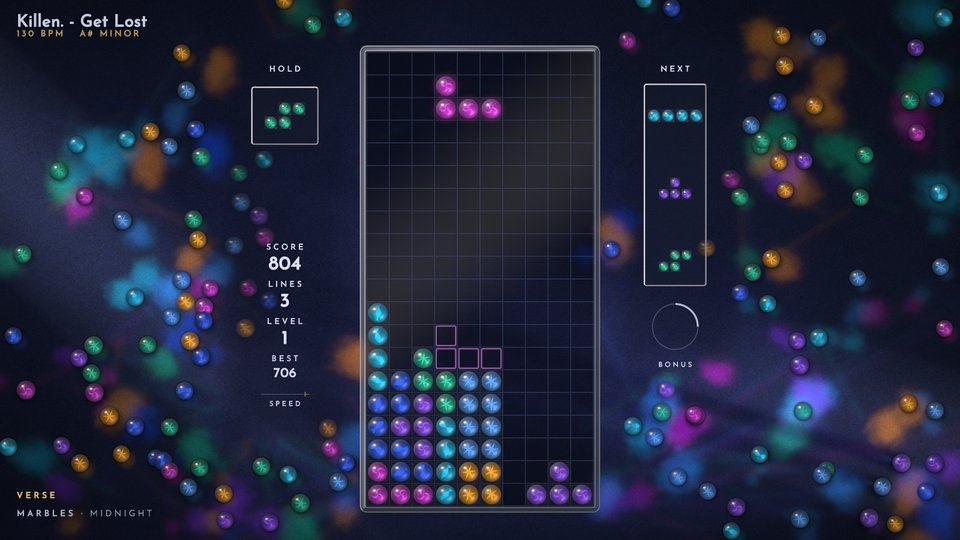
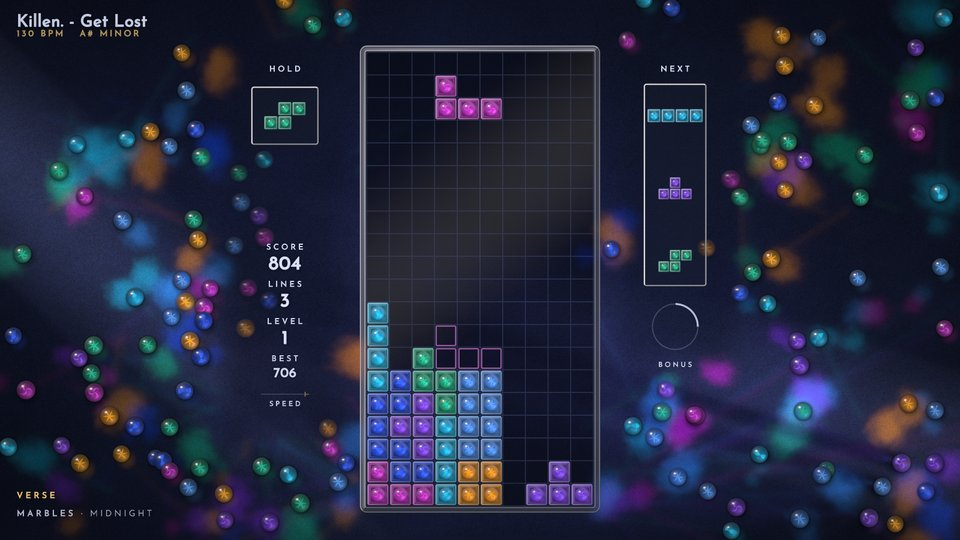
MARBLES: each cell a block of deep tinted glass with a bevel and a crisp edge, its marble inside (smaller, under the block's front face), so the pieces read as blocks; the falling piece without its glow; README image re-shot
Claude-Session: https://claude.ai/code/session_01TRpCVe8qgHvBr5qwovmpX7

diff --git a/src/universes/marbles/shaders.hpp b/src/universes/marbles/shaders.hpp
@@ -374,28 +374,34 @@ void main() {
             frag = vec4(mix(c0, uBridgeInk, bb), line * alpha);
             return;
         }
-        // a frosted tile tinted by its marble
-        vec3 base = mix(uTileCol, c0, uTileTint);
-        base *= 1.0 + 0.12 * (p.y / h);
-        float ta = uTileAlpha * 0.075;
-        // what the marble sees behind it: the tile over the pane over the world
-        vec3 behind = mix(bgAt(v0.xy), uPanel.rgb, uPanel.a);
-        tileEnv = mix(behind, base, clamp(ta * 2.0, 0.0, 1.0)) * 0.95 + 0.015;
+        // a block of deep tinted glass holding its marble: a body of the marble's color, darker toward the middle,
+        // a bevel all round (lit up left, shaded down right), a crisp edge
+        float hb = 0.13 * h / 0.46;                          // the bevel's width
+        float bev = smoothstep(-hb, -hb + px * 1.5, d);       // 0 on the face, 1 on the bevel
+        vec2 bn = normalize(p + 1e-4);                       // which side of the bevel
+        float side = dot(abs(p.x) > abs(p.y) ? vec2(sign(p.x), 0.0) : vec2(0.0, sign(p.y)), vec2(-0.7071, 0.7071));
+        vec3 deep = c0 * (0.32 + 0.08 * uLightGround);
+        vec3 base = mix(deep, c0 * 0.55, smoothstep(0.0, h, length(p)) * 0.6);
+        base *= 1.0 + 0.10 * (p.y / h);
+        base = mix(base, mix(c0 * 0.3, mix(c0, vec3(1.0), 0.12) * 0.9, side * 0.5 + 0.5), bev);
+        float ta = mix(0.62, 0.8, bev) * (0.75 + 0.25 * uTileAlpha);
+        // what the marble sees behind it: the block's glass
+        tileEnv = base * 1.1 + 0.01;
 )"
-R"(        // the marble's shadow on the tile, and the light it focuses there
-        vec2 sp = (p - mo - ld * 0.11) / R;
-        float sh = exp(-dot(sp, sp) * 1.6);
-        base *= 1.0 - 0.5 * sh * (1.0 - uLightGround * 0.3);
-        ta = mix(ta, max(ta, 0.04), sh * 0.5);
-        vec2 cq = (p - mo - ld * 0.35) / R;
-        float caus = exp(-dot(cq, cq) * 6.0);
-        base += (c0 * 0.8 + 0.1) * caus * (0.35 + 0.9 * dot(Lc, vec3(0.3, 0.5, 0.2)));
-        ta = max(ta, caus * 0.075);
-        // a hairline lit along the top left of the tile's edge
+R"(        // the marble's shadow on the back of the block, and the light it focuses there
+        vec2 sp = (p - mo - ld * 0.09) / R;
+        float sh = exp(-dot(sp, sp) * 1.4);
+        base *= 1.0 - 0.45 * sh * (1.0 - bev);
+        vec2 cq = (p - mo - ld * 0.32) / R;
+        float caus = exp(-dot(cq, cq) * 6.0) * (1.0 - bev);
+        base += (c0 * 0.8 + 0.1) * caus * (0.25 + 0.7 * dot(Lc, vec3(0.3, 0.5, 0.2)));
+        // a hairline along the outer edge and the bevel's inner edge, brighter up left
         float rim = smoothstep(px * 1.3, px * 0.15, abs(d + px * 1.0));
-        float lit = clamp(dot(normalize(p + 1e-4), vec2(-0.7071, 0.7071)) * 0.5 + 0.5, 0.0, 1.0);
-        base = mix(base, mix(mix(c0, vec3(1.0), 0.6), c0 * 0.75, uLightGround), rim * (0.25 + 0.5 * mix(lit, 1.0 - lit * 0.5, uLightGround)));
-        ta = max(ta, rim * (0.012 + 0.02 * lit));
+        float inner = smoothstep(px * 1.2, px * 0.1, abs(d + hb));
+        float lit = clamp(dot(bn, vec2(-0.7071, 0.7071)) * 0.5 + 0.5, 0.0, 1.0);
+        vec3 hi = mix(c0, vec3(1.0), 0.55);
+        base = mix(base, hi, rim * (0.25 + 0.6 * lit) + inner * 0.3 * lit);
+        ta = max(ta, rim * 0.9);
         // the bridge: plain squares of ink
         base = mix(base, uBridgeInk, bb);
         ta = mix(ta, 0.95, bb);
@@ -438,6 +444,14 @@ R"(        // the marble's shadow on the tile, and the light it focuses there
         float a = ma + outc.a * (1.0 - ma);
         vec3 c = (m * ma + outc.rgb * outc.a * (1.0 - ma)) / max(a, 1e-4);
         outc = vec4(c, a);
+    }
+    if (kind == 1 && bb < 1.0) {
+        // the block's front face over its marble: a faint tint and a broad diagonal sheen, so the marble sits inside
+        float d = sdRoundBox(p, vec2(h), 0.075 * h / 0.46);
+        float face = smoothstep(px, -px, d) * (1.0 - bb);
+        float band = smoothstep(0.30, 0.0, abs(dot(p / h, vec2(0.7071, 0.7071)) - 0.55)) * smoothstep(0.0, -0.13 * h / 0.46, d);
+        outc.rgb = mix(outc.rgb, c0 * 0.6, 0.12 * face);
+        outc.rgb += mix(c0, vec3(1.0), 0.6) * band * 0.10 * face;
     }
     frag = vec4(outc.rgb, outc.a * alpha);
 }

diff --git a/src/universes/marbles/marbles.cpp b/src/universes/marbles/marbles.cpp
@@ -76,7 +76,7 @@ float smin(float a, float b, float k) {
 }
 
 constexpr float WELL_HALF = 5.2f, WELL_TOP = 10.15f;   // the pane's extent (the drop's waves start there)
-constexpr float TILE_H = 0.46f, TILE_R = 0.455f;      // a tile's half size, its marble's radius (board units)
+constexpr float TILE_H = 0.46f, TILE_R = 0.33f;       // a tile's half size, its marble's radius (board units)
 constexpr int MAX_MARBLES = 140;
 constexpr float R_MIN = 0.38f, R_MAX = 0.43f;          // the marbles on the table
 constexpr float ROLL = 2.2f, DRAG = 0.2f;              // the felt's rolling resistance: units/s^2, and 1/s
@@ -1375,8 +1375,6 @@ void MarblesUniverse::drawBoard(const Game& g, float world) {
             if (cells[i][1] < Game::HIDDEN - 1) continue;
             const vec3 w = layout::cellPos(cells[i][0] + dx, cells[i][1] + dy);
             put(w.x, w.y, TILE_H, TILE_R, pal_.piece[type], 1.f, hashf((float)nextId_, i + 10.f) * TAU, glow, mseed(type, hashf((float)nextId_, (float)i)), 1);
-            // it glows a little as it falls (no trail)
-            putFx(w.x, w.y, 0.85f, 0.f, pal_.piece[type], 0.16f * (1.f - bb), 0);
         }
     }
     (void)world;

diff --git a/docs/universes.md b/docs/universes.md
@@ -147,7 +147,7 @@ Fluorescent paint splashed on a dark wall. The background is a matte, textured w
 
 ![MARBLES](universes/marbles.jpg)
 
-Glass marbles in square tiles, shot out across a dark table where they collide and stain the felt. One world seen from above, lit like a film still: a dark table with a fine grain, never busy (navy felt, teal slate or black brushed metal, one per variant; the slate and the felt show a soft relief lit from up left), under a soft overhead pool of light, its corners sinking into a moody vignette; the well stands on it as a clear glass box: its floor dark glass through which the table shows dimly, a fine grid of cells inside, a faint reflection of the room sliding across it, and thick bevelled glass walls catching the light (a bright hairline along both edges of the bevel, the walls facing the light lit, a long streak of the window along them); HOLD and NEXT sit in thin glass frames. Everything on the table (the marbles, the dye, the light) lies under the well and the HUD, never over the game: under the pane a marble is at most a dim shape, under the HUD's columns and text a rolling marble is dimmed and its halo dropped, and the HUD is a gentle slope: a slow or resting marble there is pushed out (to the nearest side away from the well) until it rests outside, so nothing ever settles under the HUD, and no dye settles there either. Each cell of a piece is a big glass marble (nearly the cell's width) sitting in its cell of the grid (its glass box is now barely there), so that the marble carries the piece and the pieces read by their marbles' colors; the falling piece glows softly (no trail). The marbles are colored glass, deep and saturated like jewels: through each one the table under it is seen upside down, as through a lens, tinted by the glass, which also holds a little light in its own color (so that a marble reads as its color, never as a gray bead, even over the dark table), darker toward the rim, the sky caught at its edge tinted too; inside, magnified and in two layers for depth, its core, one per piece type (a twisted ribbon, a cat's eye of three curved vanes or a swirl of strands), a few tiny bubbles; every marble is a glossy ball under the room's overhead light (a crisp window up left on the glass, the light it focuses glowing inside low right, a thin dark silhouette at its edge); on the table each casts a soft shadow down right and lets a soft pool of its color through onto the table beside it; the marbles on the table are dimmer than the board's (about three quarters), and one rolling fast is smeared along its way (motion blur). They are lit by real light: two lamps beyond the table's sides throw wide soft beams grazing it, one over each side of the well, turning and drifting very slowly (a few minutes to sweep the table outside a drop, livelier in one) and fading with distance, the second one coming up from mid on; their rays are traced in 2D on the CPU through the marbles (each a glass ball: refracted in and out, a Fresnel reflection, the light tinted by its glass on the way, focused like a ball lens into a narrow caustic just behind it that opens out into thin streaks of tinted light, a shadow around them; a marble lights its neighbours; the cost is bounded: 44 rays a beam, a capped number of segments, the hashed grid). Each marble is lit by the light that actually crosses it, smoothed: its glass and core glow in their tint, a focused spot inside on the far side, the rim facing the light catching it, the lamp's highlight where its surface faces it; the marbles in the well take the key light from the same side. The light on the table shows the grain and, above all, the dye; it stays secondary, soft-shouldered, never blinding, and it never pulses. Outside a drop it is calm and steady: the traced light is eased into what the table shows over about 0.7 s (0.1 s in a drop) and each marble's received light over about as long, so caustics fade in and out as the beams drift and marbles roll, nothing pops or flickers when the marbles are still, and there are no sparkles: at most a marble now and then swelling softly with light over a second and a half. A cleared row pops: its tiles swell a little and vanish in a moment and each marble drops onto the table under its cell and is shot out along its row to its own side (a slight spread, so it comes out of the well's edge at the height of its line) at a real speed (fast enough to carry it past the HUD's columns), gliding out from under the glass (touching nothing there, only a dim shape: nothing ever comes to rest hidden under the well), knocking past the wall of the box (deflected a little up or down, so the marbles fan out over the table instead of heaping level with the low rows; now and then a few short sparks there) and rolling across the table, slowed by the felt, knocking into the marbles already lying there: elastic collisions (restitution 0.86), billiard chains, a hard knock throwing a few short hot sparks off the contact; a marble at rest sleeps until it is hit hard enough (a gentle touch leaves it be: no jitter, no creeping); no walls: a marble pushed off the edge of the picture is gone (their speeds vary widely: some rest just past the HUD, some far out, a few roll off); at most about 140, the oldest at rest fading away, and a marble long at rest packed among three or more others fades away now and then, so the table stays a loose scatter however long the song, never a heap; at the real speed, even in slow motion. Every hit spreads color: both marbles stain the felt around them with their dye (a richer shade of their glass), soft ragged blots soaked into the grain and softened into pools of colored light (glowing a little), the harder the hit the wider and deeper, and rolling marbles leave faint traces; the dye is painted into a persistent layer (anti-aliased, the cost the same with ten stains or thousands), so a song starts on a dark, empty table and ends on a colorful one; a new song washes the dye out over a couple of seconds and its marbles fade away. Three variants, each with its table and seven saturated jewel colors for its seven pieces (no pale or gray marble), from the key, mode and brightness: MIDNIGHT (navy felt; sapphire, cyan, cornflower, amethyst, magenta, emerald, a gold accent), SEA GLASS (dark teal slate; the deep colors of sea glass: aqua, seafoam, sky, emerald, cobalt, amber, a coral accent) and OBSIDIAN (black brushed metal; fire: crimson, vermilion, amber, yellow, raspberry, violet, an ice-blue accent). The dye takes the marbles' colors, barely deepened, so it never outshines them. The colors are already rich through the song, a little richer in a chorus, and richer still and glowing for a drop, easing back over a few seconds after it (`--universe "marbles:sea glass"`). Calm is still; mid sets a resting marble rolling now and then and lets one swell softly with light on some bars; a chorus brings now and then a marble swelling with light on a kick (no glow around the well, ever). A drop sends waves of light flowing through the marbles every two beats (a stronger, double band on the bars), each drop its own shape: out from the well, in from the edges, sweeping across, rising, rings spreading from a marble, or diagonal bands; the fronts are light travelling through the marbles (each lit from the side the front comes from), their cores glowing first, glints sparkling along it; the beams turn whiter (no brighter: the table and the well's surroundings stay as dark as in the verse, the drop's light lives on the marbles) and each marble splits them into a wider spectrum, rainbow fans across the felt; each lit marble burns brighter (highlights, rims) and throws its light on the table just behind it, a pool of its color split into a little spectrum; and on the kicks a few lit marbles are nudged into their neighbours (more color); its first downbeat sends a triple wave. A lock settles the piece's marbles in their tiles; a hard drop jolts them, the jolt carries a little into the tiles under it and the glass of the bottom marbles flashes. A quad shoots its marbles harder and sends a wave of light out from the well through every marble; slow motion is night (the table sinks into the dark, the marbles glow softly like lanterns); game over shoots every marble out of its tile, row by row from the top; it leaves and enters with the world fading to the bridge, the stack in plain squares of ink. The bonus gauge is a ring of twelve small marbles, one more for each cleared line, a light running around it once it is full. Its HUD fonts are Outfit Light and Outfit Medium (SIL Open Font License, `src/universes/marbles/OFL-Outfit.txt`).
+Glass marbles in square tiles, shot out across a dark table where they collide and stain the felt. One world seen from above, lit like a film still: a dark table with a fine grain, never busy (navy felt, teal slate or black brushed metal, one per variant; the slate and the felt show a soft relief lit from up left), under a soft overhead pool of light, its corners sinking into a moody vignette; the well stands on it as a clear glass box: its floor dark glass through which the table shows dimly, a fine grid of cells inside, a faint reflection of the room sliding across it, and thick bevelled glass walls catching the light (a bright hairline along both edges of the bevel, the walls facing the light lit, a long streak of the window along them); HOLD and NEXT sit in thin glass frames. Everything on the table (the marbles, the dye, the light) lies under the well and the HUD, never over the game: under the pane a marble is at most a dim shape, under the HUD's columns and text a rolling marble is dimmed and its halo dropped, and the HUD is a gentle slope: a slow or resting marble there is pushed out (to the nearest side away from the well) until it rests outside, so nothing ever settles under the HUD, and no dye settles there either. Each cell of a piece is a square block of deep glass tinted in its marble's color (darker toward the middle, a bevel all round lit up left and shaded down right, a crisp bright edge) holding its glass marble inside (about three quarters of the cell's width), the block's front face over it (a faint tint, a broad diagonal sheen), so that the pieces read as blocks and the marbles as held in them; the falling piece has no glow and no trail. The marbles are colored glass, deep and saturated like jewels: through each one the table under it is seen upside down, as through a lens, tinted by the glass, which also holds a little light in its own color (so that a marble reads as its color, never as a gray bead, even over the dark table), darker toward the rim, the sky caught at its edge tinted too; inside, magnified and in two layers for depth, its core, one per piece type (a twisted ribbon, a cat's eye of three curved vanes or a swirl of strands), a few tiny bubbles; every marble is a glossy ball under the room's overhead light (a crisp window up left on the glass, the light it focuses glowing inside low right, a thin dark silhouette at its edge); on the table each casts a soft shadow down right and lets a soft pool of its color through onto the table beside it; the marbles on the table are dimmer than the board's (about three quarters), and one rolling fast is smeared along its way (motion blur). They are lit by real light: two lamps beyond the table's sides throw wide soft beams grazing it, one over each side of the well, turning and drifting very slowly (a few minutes to sweep the table outside a drop, livelier in one) and fading with distance, the second one coming up from mid on; their rays are traced in 2D on the CPU through the marbles (each a glass ball: refracted in and out, a Fresnel reflection, the light tinted by its glass on the way, focused like a ball lens into a narrow caustic just behind it that opens out into thin streaks of tinted light, a shadow around them; a marble lights its neighbours; the cost is bounded: 44 rays a beam, a capped number of segments, the hashed grid). Each marble is lit by the light that actually crosses it, smoothed: its glass and core glow in their tint, a focused spot inside on the far side, the rim facing the light catching it, the lamp's highlight where its surface faces it; the marbles in the well take the key light from the same side. The light on the table shows the grain and, above all, the dye; it stays secondary, soft-shouldered, never blinding, and it never pulses. Outside a drop it is calm and steady: the traced light is eased into what the table shows over about 0.7 s (0.1 s in a drop) and each marble's received light over about as long, so caustics fade in and out as the beams drift and marbles roll, nothing pops or flickers when the marbles are still, and there are no sparkles: at most a marble now and then swelling softly with light over a second and a half. A cleared row pops: its tiles swell a little and vanish in a moment and each marble drops onto the table under its cell and is shot out along its row to its own side (a slight spread, so it comes out of the well's edge at the height of its line) at a real speed (fast enough to carry it past the HUD's columns), gliding out from under the glass (touching nothing there, only a dim shape: nothing ever comes to rest hidden under the well), knocking past the wall of the box (deflected a little up or down, so the marbles fan out over the table instead of heaping level with the low rows; now and then a few short sparks there) and rolling across the table, slowed by the felt, knocking into the marbles already lying there: elastic collisions (restitution 0.86), billiard chains, a hard knock throwing a few short hot sparks off the contact; a marble at rest sleeps until it is hit hard enough (a gentle touch leaves it be: no jitter, no creeping); no walls: a marble pushed off the edge of the picture is gone (their speeds vary widely: some rest just past the HUD, some far out, a few roll off); at most about 140, the oldest at rest fading away, and a marble long at rest packed among three or more others fades away now and then, so the table stays a loose scatter however long the song, never a heap; at the real speed, even in slow motion. Every hit spreads color: both marbles stain the felt around them with their dye (a richer shade of their glass), soft ragged blots soaked into the grain and softened into pools of colored light (glowing a little), the harder the hit the wider and deeper, and rolling marbles leave faint traces; the dye is painted into a persistent layer (anti-aliased, the cost the same with ten stains or thousands), so a song starts on a dark, empty table and ends on a colorful one; a new song washes the dye out over a couple of seconds and its marbles fade away. Three variants, each with its table and seven saturated jewel colors for its seven pieces (no pale or gray marble), from the key, mode and brightness: MIDNIGHT (navy felt; sapphire, cyan, cornflower, amethyst, magenta, emerald, a gold accent), SEA GLASS (dark teal slate; the deep colors of sea glass: aqua, seafoam, sky, emerald, cobalt, amber, a coral accent) and OBSIDIAN (black brushed metal; fire: crimson, vermilion, amber, yellow, raspberry, violet, an ice-blue accent). The dye takes the marbles' colors, barely deepened, so it never outshines them. The colors are already rich through the song, a little richer in a chorus, and richer still and glowing for a drop, easing back over a few seconds after it (`--universe "marbles:sea glass"`). Calm is still; mid sets a resting marble rolling now and then and lets one swell softly with light on some bars; a chorus brings now and then a marble swelling with light on a kick (no glow around the well, ever). A drop sends waves of light flowing through the marbles every two beats (a stronger, double band on the bars), each drop its own shape: out from the well, in from the edges, sweeping across, rising, rings spreading from a marble, or diagonal bands; the fronts are light travelling through the marbles (each lit from the side the front comes from), their cores glowing first, glints sparkling along it; the beams turn whiter (no brighter: the table and the well's surroundings stay as dark as in the verse, the drop's light lives on the marbles) and each marble splits them into a wider spectrum, rainbow fans across the felt; each lit marble burns brighter (highlights, rims) and throws its light on the table just behind it, a pool of its color split into a little spectrum; and on the kicks a few lit marbles are nudged into their neighbours (more color); its first downbeat sends a triple wave. A lock settles the piece's marbles in their tiles; a hard drop jolts them, the jolt carries a little into the tiles under it and the glass of the bottom marbles flashes. A quad shoots its marbles harder and sends a wave of light out from the well through every marble; slow motion is night (the table sinks into the dark, the marbles glow softly like lanterns); game over shoots every marble out of its tile, row by row from the top; it leaves and enters with the world fading to the bridge, the stack in plain squares of ink. The bonus gauge is a ring of twelve small marbles, one more for each cleared line, a light running around it once it is full. Its HUD fonts are Outfit Light and Outfit Medium (SIL Open Font License, `src/universes/marbles/OFL-Outfit.txt`).
 
 ## PRISM
 
